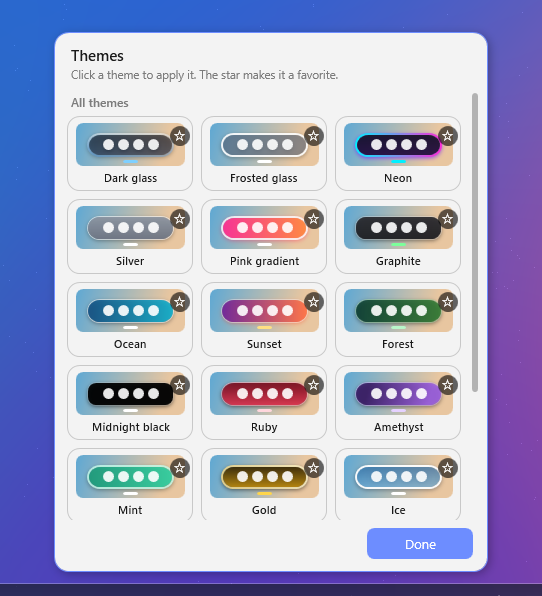
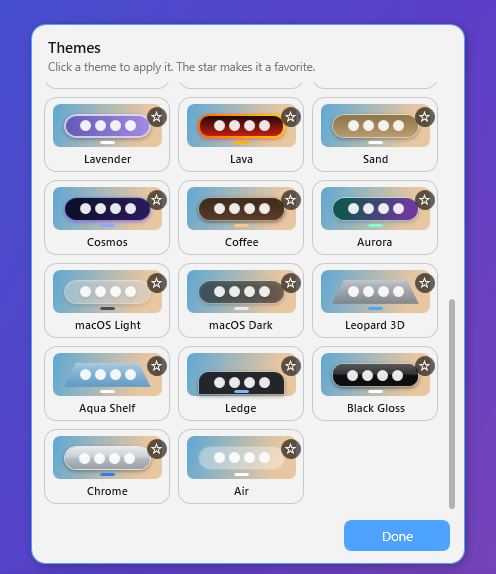
New sections with screenshots: clipboard history, quick actions and dock shapes; refreshed themes screenshot with the new themes

diff --git a/js/lang-bg.js b/js/lang-bg.js
@@ -128,6 +128,30 @@ window.I18N.bg = {
   "g3": "Часовници по света за всяка часова зона",
   "g4": "Бързи бележки, които се записват сами",
 
+  "s10.eyebrow": "Клипборд",
+  "s10.title": "Всичко копирано, на едно цъкване",
+  "s10.p": "Уиджетът за клипборда помни какво копираш — текст, линкове, картинки и дори файлове от Explorer. Цъкни запис и той отново е в клипборда, готов за поставяне.",
+  "s10.l1": "Текст, картинки с миниатюри и копирани файлове",
+  "s10.l2": "Пази прозрачността, когато програмата я дава",
+  "s10.l3": "Само в паметта — нищо не се записва на диска",
+  "s10.alt": "История на клипборда",
+
+  "s11.eyebrow": "Бързи действия",
+  "s11.title": "Преките пътища на Windows в една плочка",
+  "s11.p": "Един уиджет събира нещата, които ползваш всеки ден. Превключи Windows между светъл и тъмен вид, спри звука, скрий иконите на десктопа или изрежи част от екрана — без да ровиш в менюта.",
+  "s11.l1": "Тъмен режим, заглушаване и икони на десктопа с едно цъкване",
+  "s11.l2": "Покажи десктопа и изрежи екрана",
+  "s11.l3": "Направо към настройките на Windows",
+  "s11.alt": "Бързи действия",
+
+  "s9.eyebrow": "Форми",
+  "s9.title": "Док с каквато форма поискаш",
+  "s9.p": "Отвъд цветовете. Избери класически заоблен док, капсула като в macOS, полица, прилепнала до ръба на екрана, или 3D стъклена полица с отражения на иконите. Добави гланц, картинка за фон, която никога не се разтяга, или нека докът вземе цвета си от тапета.",
+  "s9.l1": "Заоблен, капсула, полица и 3D полица",
+  "s9.l2": "Картинка за фон, която запълва, повтаря се или се мащабира чисто",
+  "s9.l3": "Цветове, които следват тапета",
+  "s9.alt": "Форми на дока: капсула, 3D полица, хром и полица",
+
   "s4.eyebrow": "Теми",
   "s4.title": "Направи го свой",
   "s4.p": "Избирай от 29 теми — от тъмно стъкло до капсули в стила на macOS и 3D полица — или създай своя с форми, преливания, гланц, рамки, отражения, сенки и картинка за фон. Любимите са на едно цъкване, а Nova Dock може сам да сменя темата през деня.",

diff --git a/js/lang-en.js b/js/lang-en.js
@@ -128,6 +128,30 @@ window.I18N.en = {
   "g3": "World clocks for every time zone",
   "g4": "Quick notes that save themselves",
 
+  "s10.eyebrow": "Clipboard",
+  "s10.title": "Everything you copied, one click away",
+  "s10.p": "The clipboard widget remembers what you copy — text, links, images and even files from File Explorer. Click any entry and it is back on the clipboard, ready to paste.",
+  "s10.l1": "Text, images with live thumbnails, and copied files",
+  "s10.l2": "Keeps transparency when the app provides it",
+  "s10.l3": "Lives only in memory — nothing is written to disk",
+  "s10.alt": "Clipboard history",
+
+  "s11.eyebrow": "Quick actions",
+  "s11.title": "Windows shortcuts in a single tile",
+  "s11.p": "One widget gathers the things you reach for every day. Switch Windows between light and dark, mute the sound, hide the desktop icons or snip part of the screen — without digging through menus.",
+  "s11.l1": "Dark mode, mute and desktop icons in one click",
+  "s11.l2": "Show desktop and screen snip",
+  "s11.l3": "A direct way into Windows Settings",
+  "s11.alt": "Quick actions",
+
+  "s9.eyebrow": "Shapes",
+  "s9.title": "A dock in any shape",
+  "s9.p": "Go beyond colors. Pick a classic rounded dock, a capsule like on macOS, a ledge that hugs the edge of the screen, or a 3D glass shelf with icon reflections. Add gloss, a background image that never stretches, or let the dock take its color from your wallpaper.",
+  "s9.l1": "Rounded, capsule, ledge and 3D shelf",
+  "s9.l2": "Background images that fill, tile or scale cleanly",
+  "s9.l3": "Colors that follow your wallpaper",
+  "s9.alt": "Dock shapes: capsule, 3D shelf, chrome and ledge",
+
   "s4.eyebrow": "Themes",
   "s4.title": "Make it yours",
   "s4.p": "Pick from 29 themes — from deep glass to macOS-style capsules and a 3D shelf — or craft your own with shapes, gradients, gloss, borders, reflections, shadows and background images. Keep favorites one click away, or let Nova Dock change the theme automatically during the day.",

diff --git a/index.html b/index.html
@@ -229,6 +229,54 @@
 <section>
   <div class="wrap split reveal">
     <div class="text">
+      <div class="eyebrow" data-i18n="s10.eyebrow">Clipboard</div>
+      <h2 data-i18n="s10.title">Everything you copied, one click away</h2>
+      <p data-i18n="s10.p"></p>
+      <ul class="ticks">
+        <li data-i18n="s10.l1"></li>
+        <li data-i18n="s10.l2"></li>
+        <li data-i18n="s10.l3"></li>
+      </ul>
+    </div>
+    <img class="shot" src="img/clipboard.png" alt="Clipboard history" data-i18n-alt="s10.alt" loading="lazy">
+  </div>
+</section>
+
+<section class="band">
+  <div class="wrap split rev reveal">
+    <div class="text">
+      <div class="eyebrow" data-i18n="s11.eyebrow">Quick actions</div>
+      <h2 data-i18n="s11.title">Windows shortcuts in a single tile</h2>
+      <p data-i18n="s11.p"></p>
+      <ul class="ticks">
+        <li data-i18n="s11.l1"></li>
+        <li data-i18n="s11.l2"></li>
+        <li data-i18n="s11.l3"></li>
+      </ul>
+    </div>
+    <img class="shot" src="img/quick.png" alt="Quick actions" data-i18n-alt="s11.alt" loading="lazy">
+  </div>
+</section>
+
+<section>
+  <div class="wrap split reveal">
+    <div class="text">
+      <div class="eyebrow" data-i18n="s9.eyebrow">Shapes</div>
+      <h2 data-i18n="s9.title">A dock in any shape</h2>
+      <p data-i18n="s9.p"></p>
+      <ul class="ticks">
+        <li data-i18n="s9.l1"></li>
+        <li data-i18n="s9.l2"></li>
+        <li data-i18n="s9.l3"></li>
+      </ul>
+    </div>
+    <img class="shot" src="img/shapes.png" alt="Dock shapes" data-i18n-alt="s9.alt" loading="lazy">
+  </div>
+</section>
+
+<section class="band">
+  <div class="wrap split rev reveal">
+    <div class="text">
       <div class="eyebrow" data-i18n="s4.eyebrow">Themes</div>
       <h2 data-i18n="s4.title">Make it yours</h2>
       <p data-i18n="s4.p"></p>
